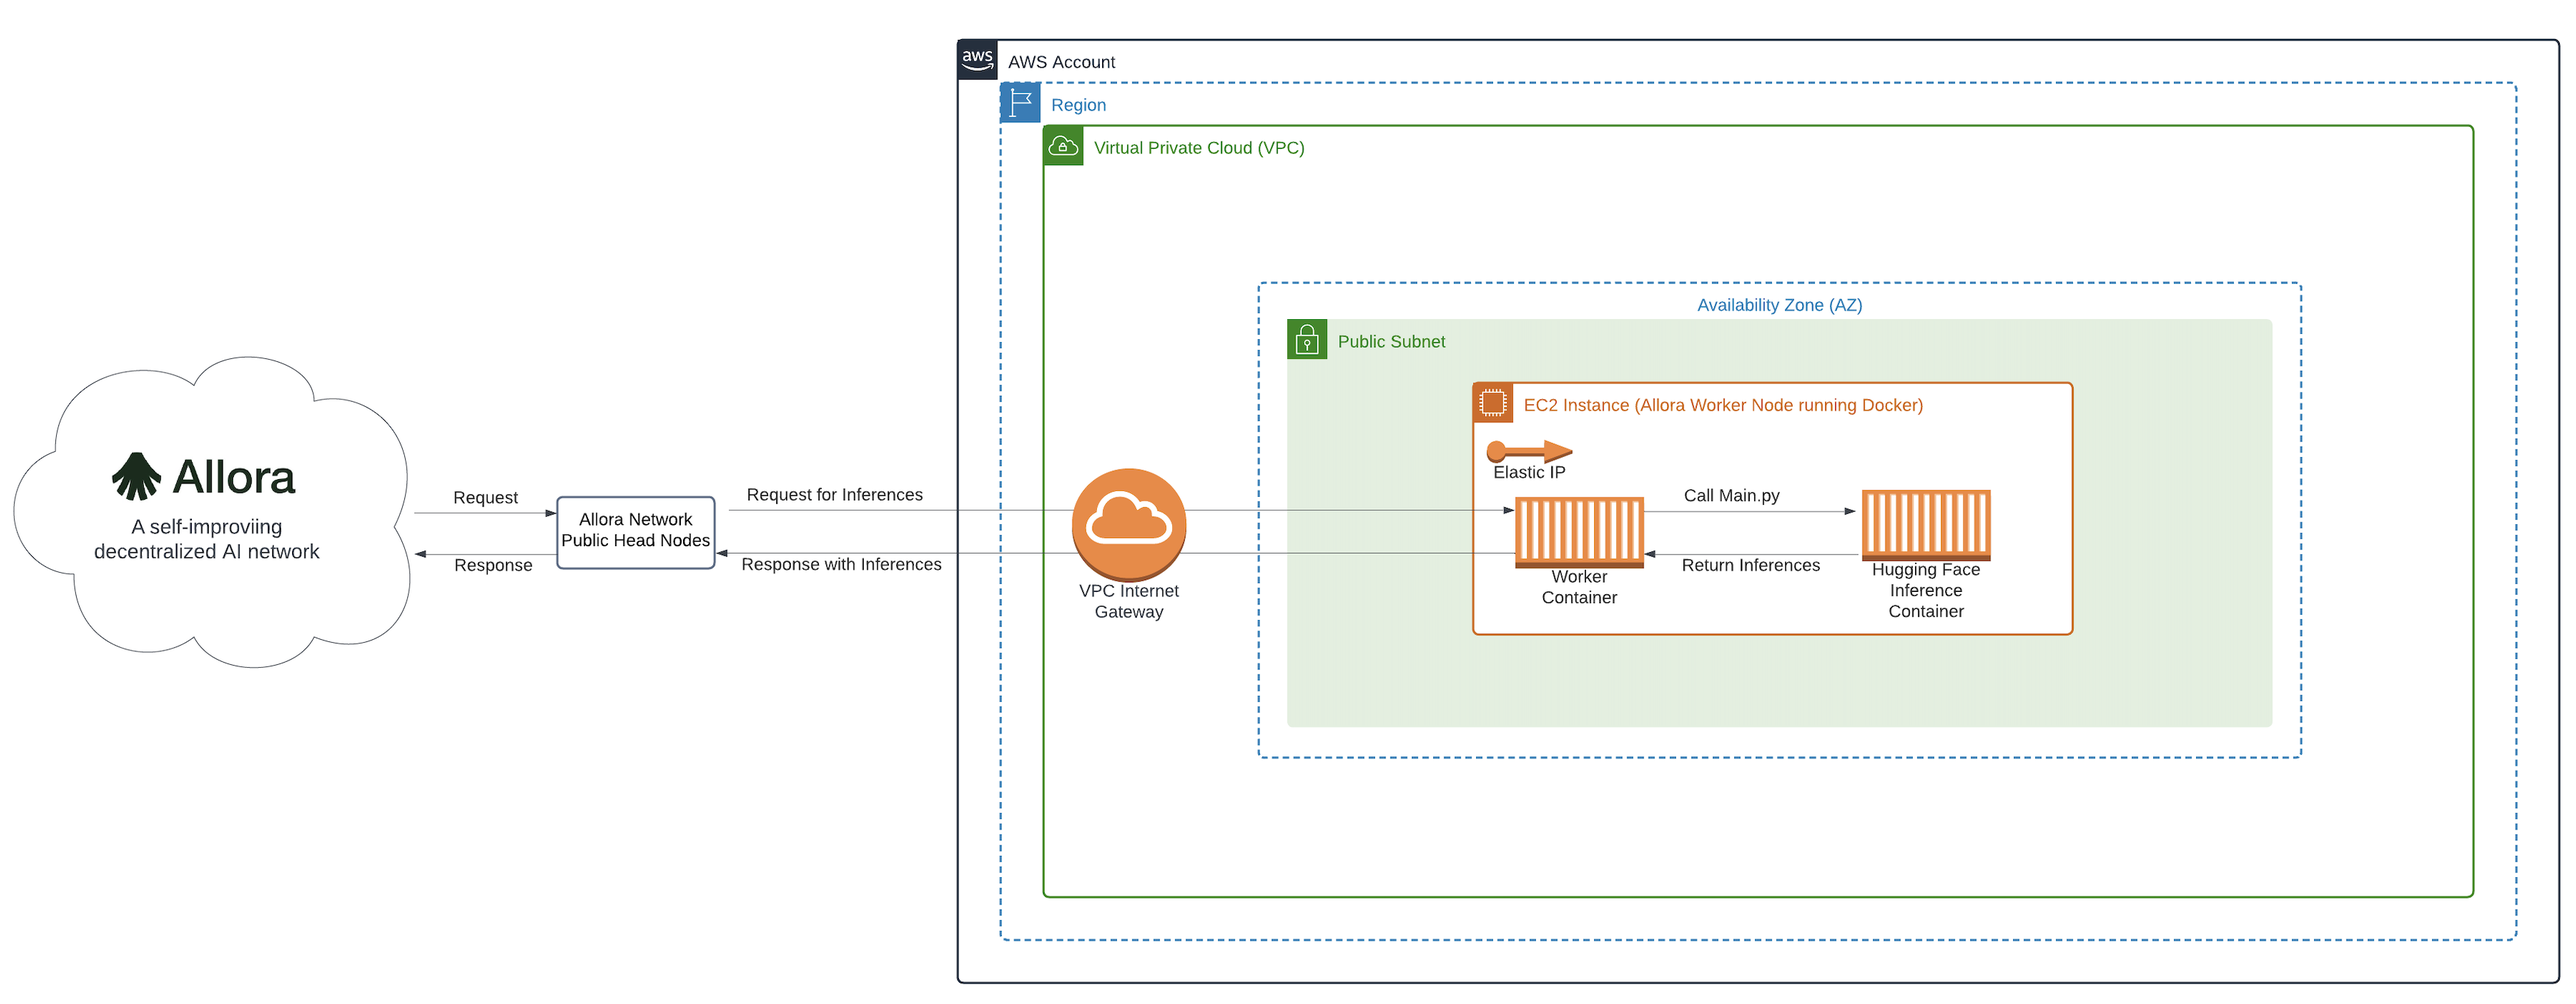
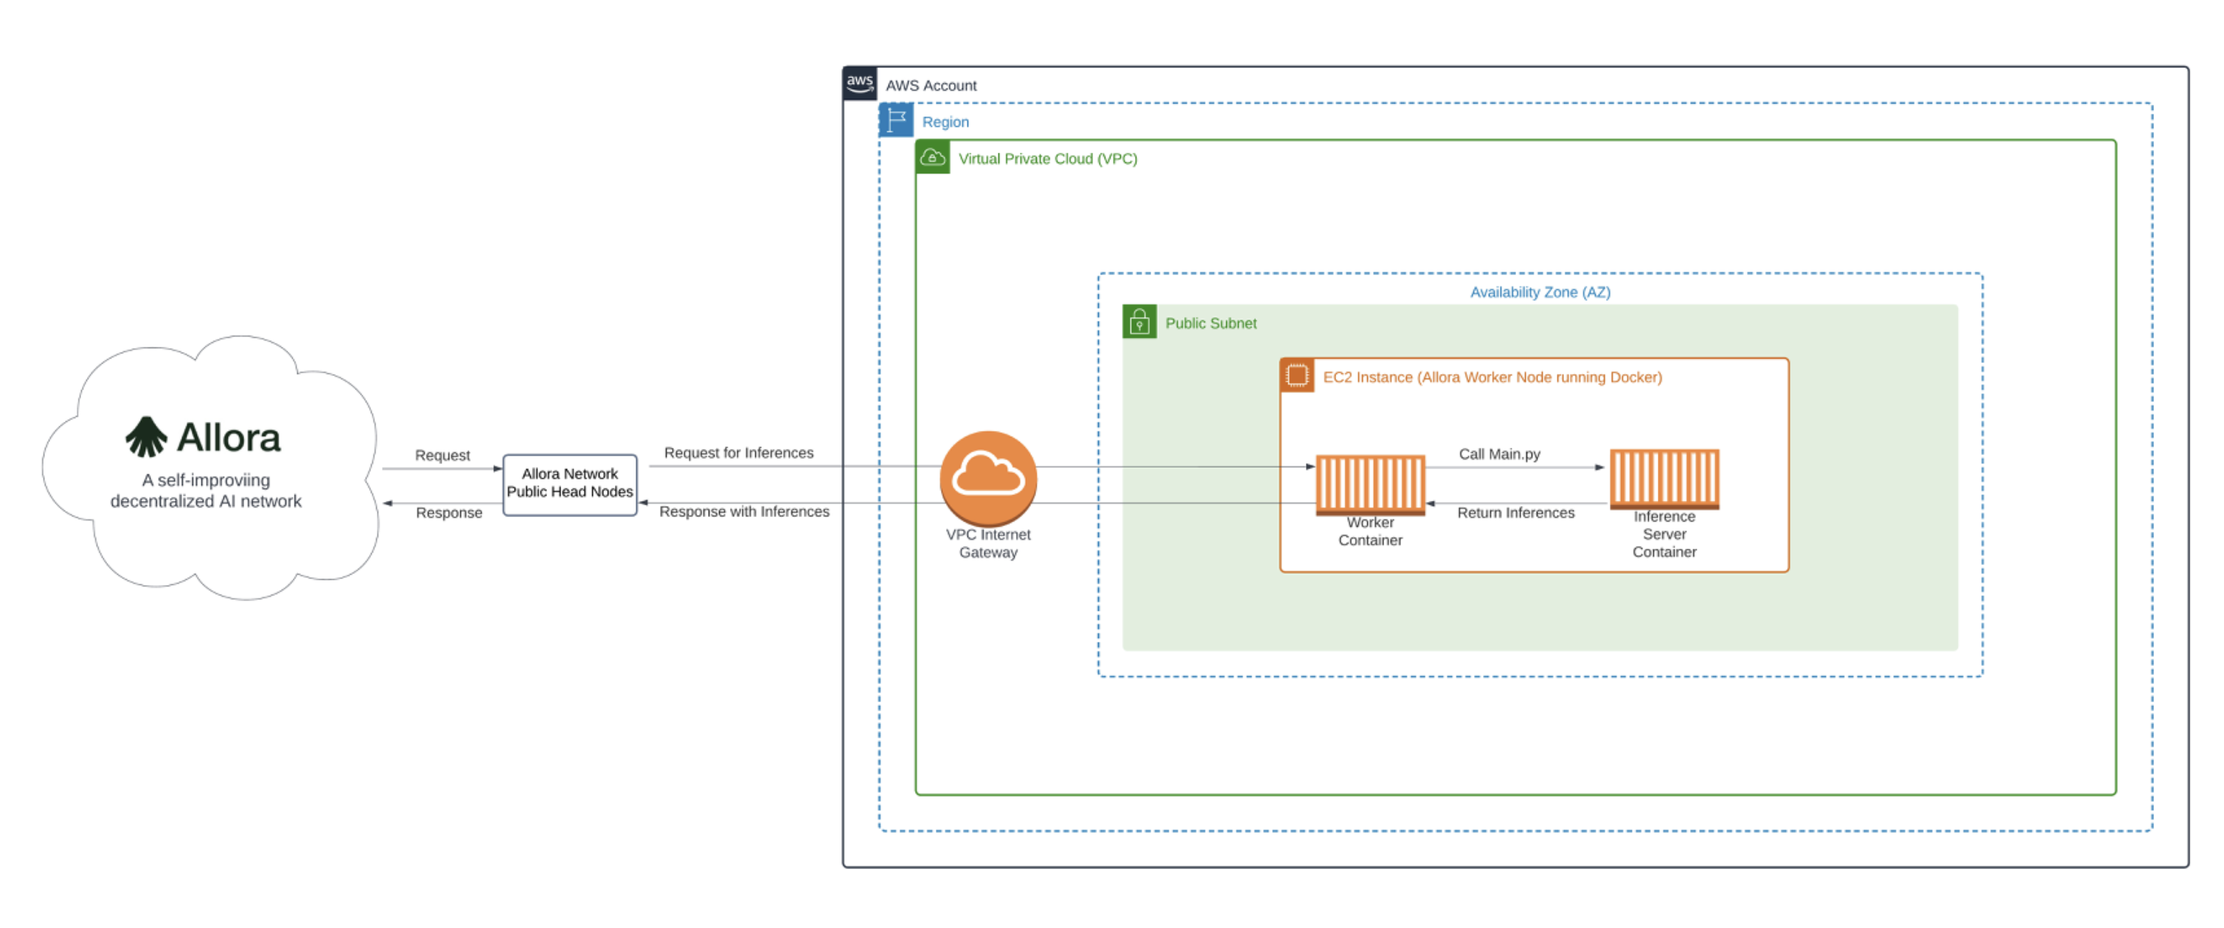
updating the readme, and the draw png/source

diff --git a/lib/allora/README.md b/lib/allora/README.md
@@ -2,7 +2,7 @@
 
 | Contributed by |
 |:--------------------:|
-| [@clementupshot](https://github.com/clementupshot), [@allora-rc](https://github.com/allora-rc) |
+| [@clementupshot](https://github.com/clementupshot), [@allora-rc](https://github.com/allora-rc), [@Madisonw](https://github.com/Madisonw)|
 
 [Allora](https://www.allora.network/) is a self-improving decentralized Artificial Intelligence (AI) network. The primary goal of the network is to be the marketplace for intelligence. In other words, Allora aims to incentivize data scientists (workers) to provide high-quality inferences as requested by consumers. Inferences include predictions of arbitrary future events or difficult computations requiring specialized knowledge.
 
@@ -31,26 +31,52 @@ The AWS Cloud Development Kit (CDK) is used to deploy a single Allora Worker Nod
   - Public subnet that has a direct route to the IGW
   - Security Group (SG) with TCP Port 9010 open inbound allowing requests for inferences to be routed to the Allora Worker Node
   - Single Amazon Elastic Compute Cloud (EC2) instance (the Allora Worker Node) assigned to the public subnet
-  - Elastic IP Address (EIP) associated with the EC2 instance to maintain consistent IP addressing across instance restarts
 
 The Allora Worker Node is accessed by the user internally and is not exposed to the Internet to protect the node from unauthorized access. A user can gain access to the EC2 Instance using AWS Session Manager. 
 
 Multiple processes run on the Allora Worker Node (EC2 instance):
 
-  - Docker container with the worker node logic that handles communnication bet
-  - Docker container running the model server that reveal inferences to consumers
+  - Docker container with the worker node logic that handles communication between the worker and the public head nodes
+  - Docker container running the model server that reveals inferences to consumers
 
 Allora Public Head Nodes publish the Allora chain requests (requests for inferences from consumers) to Allora worker nodes. When a worker node is initialized, it starts with an environment variable called BOOT_NODES, which helps handle the connection and communications between worker nodes and the head nodes.
 
-The worker node (docker container) will call the function that invokes custom logic that handles. The request-response is a bidirectional flow from the Allora chain (inference requests from consumers) to the public head nodes to the worker node and finally to the model server that reveals inferences. 
+The worker node (docker container) will call the function that invokes custom logic that handles the actual inference. The request-response is a bidirectional flow from the Allora chain (inference requests from consumers) to the public head nodes to the worker node and finally to the model server that reveals inferences. 
 
+## Additional materials
+
+<details>
+
+<summary>Well-Architected Checklist</summary>
+
+This is the Well-Architected checklist for the Allora worker nodes implementation of the AWS Blockchain Node Runner app. This checklist takes into account questions from the [AWS Well-Architected Framework](https://aws.amazon.com/architecture/well-architected/) which are relevant to this workload. Please feel free to add more checks from the framework if required for your workload.
+
+| Pillar                  | Control                           | Question/Check                                                                   | Remarks |
+|:------------------------|:----------------------------------|:---------------------------------------------------------------------------------|:----------------------------------------------------------------------------------------------------------------------------------------------------------------------------------------------------------------------------------------------------------------------------------------------------------------------------------------------------------------------------------------------|
+| Security                | Network protection                | Are there unnecessary open ports in security groups?                             | Please note that port 9010 (TCP) is open inbound to support requests for inferences from the Allora Network public head nodes. |
+|                         |                                   | Traffic inspection                                                               | Traffic protection is not used in the solution. [AWS Web Applications Firewall (WAF)](https://docs.aws.amazon.com/waf/latest/developerguide/waf-chapter.html) could be implemented for traffic over HTTP(S), [AWS Shield](https://docs.aws.amazon.com/waf/latest/developerguide/shield-chapter.html) provides Distributed Denial of Service (DDoS) protection. Additional charges will apply. |
+|                         | Compute protection                | Reduce attack surface                                                            | This solution uses Amazon Linux AMI. You may choose to run hardening scripts on it. |
+|                         |                                   | Enable people to perform actions at a distance                                   | This solution uses [AWS Systems Manager for terminal session](https://docs.aws.amazon.com/systems-manager/latest/userguide/session-manager-working-with-sessions-start.html#start-sys-console). SSH Port 22 is not open inbound. |
+|                         | Data protection at rest           | Use encrypted Amazon Elastic Block Store (Amazon EBS) volumes                    | This solution uses encrypted Amazon EBS volumes. |
+|                         | Authorization and access control  | Use instance profile with Amazon Elastic Compute Cloud (Amazon EC2) instances    | This solution uses AWS Identity and Access Management (AWS IAM) role instead of IAM user. |
+|                         |                                   | Following principle of least privilege access                                    | Root user is not used (using special user "ec2-user" instead). |
+|                         | Application security              | Security focused development practices                                           | cdk-nag is being used with appropriate suppressions. |
+| Cost optimization       | Service selection                 | Use cost effective resources                                                     | We use a T3 instance as T3 instances are a low cost burstable general purpose instance type that provide a baseline level of CPU performance with the ability to burst CPU usage at any time for as long as required. T3 instances are designed for applications with moderate CPU usage that experience temporary spikes in use. This profile aligns closely with the load profile of Allora Network worker nodes.                                                                                                             |
+| Reliability             | Resiliency implementation         | Withstand component failures                                                     | This solution does not use an [AWS EC2 Auto Scaling Group](https://aws.amazon.com/ec2/autoscaling/) but one can be implemented.  |
+|                         | Data backup                       | How is data backed up?                                                           | Considering blockchain data is replicated by Allora Cosmos AppChain Validator nodes, we don't use additional mechanisms to backup the data. |
+|                         | Resource monitoring               | How are workload resources monitored?                                            | Resources are not being monitored using Amazon CloudWatch dashboards. Amazon CloudWatch custom metrics are being pushed via CloudWatch Agent.  |
+| Performance efficiency  | Compute selection                 | How is compute solution selected?                                                | Compute solution is selected based on best price-performance, i.e. AWS EC2 T3 Medium instance suitable for bursty workloads. |
+|                         | Storage selection                 | How is storage solution selected?                                                | Storage solution is selected based on best price-performance, i.e. Amazon EBS volumes with optimal IOPS and throughput. |
+|                         | Architecture selection            | How is the best performance architecture selected?                               | A combination of recommendations from the Allora Network community and Allora Labs testing. |
+| Sustainability          | Hardware & services               | Select most efficient hardware for your workload                                 | The solution uses AMD-powered instances. There is a potential to use AWS Graviton-based Amazon EC2 instances which offer the best performance per watt of energy use in Amazon EC2. 
+</details>
 
 ## Worker Node System Requirements
 
 - Operating System: Any modern Linux operating system
-- CPU: Minimum of 1/2 core
-- Memory: 2 to 4 GB
-- Storage: SSD or NVMe with at least 5GB of space
+- CPU: Minimum of 2 cores
+- Memory: Minimum of 4GB
+- Storage: SSD or NVMe with minimum of 20GB of space
 
 ## Setup Instructions
 
